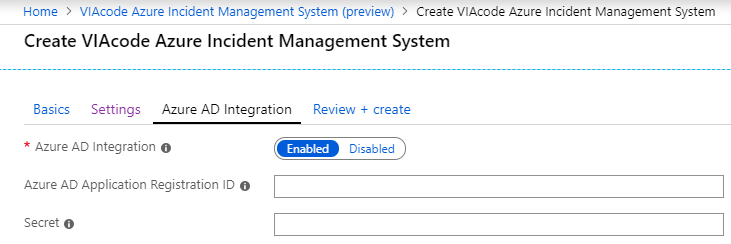
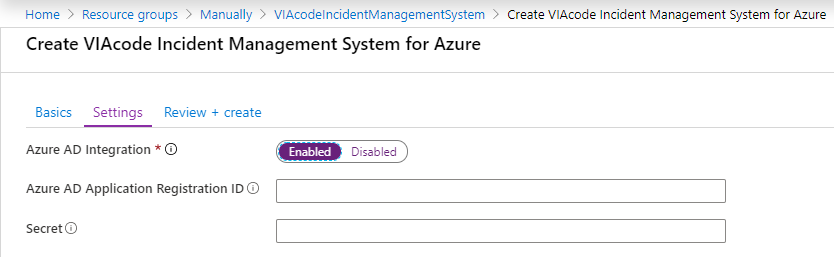
Updated configuration guide with respect to removing name prefix and credentials from wizard

diff --git a/VIAcode Incident Management System for Azure deployment and сonfiguration guide.md b/VIAcode Incident Management System for Azure deployment and сonfiguration guide.md
@@ -6,7 +6,6 @@
 - [Configuration of VIAcode Incident Management System for Azure](#configuration-of-viacode-incident-management-system-for-azure)
   - [Basics](#basics)
   - [Settings](#settings)
-  - [Azure AD Integration](#azure-ad-integration)
     - [Purpose of an App registration](#purpose-of-an-app-registration)
   - [Review and create](#review-and-create)
   - [Redirect URI for Azure AD Integration](#redirect-uri-for-azure-ad-integration)
@@ -74,15 +73,6 @@ After you have selected "VIAcode Incident Management System for Azure" software 
 - Press "Next : Settings >" button.
 
 ## Settings
-
-![Settings](./media/Settings.png)
-
-- Set a nameprefix for the resources.
-- Specify administrator email address for VIAcode Incident Management System for Azure. Administrator will be the first agent who receives notifications on new tickets. Make sure the email address exists.
-- Set password.
-- Press "Next : Azure AD Integration >" button.
-
-## Azure AD Integration
 
 To enable Azure AD Integration you have to specify Azure AD Application Registration ID and Secret. To create a new App registration see [Steps to create a new App registration in Azure AD](#steps-to-create-a-new-app-registration-in-azure-ad).
 
